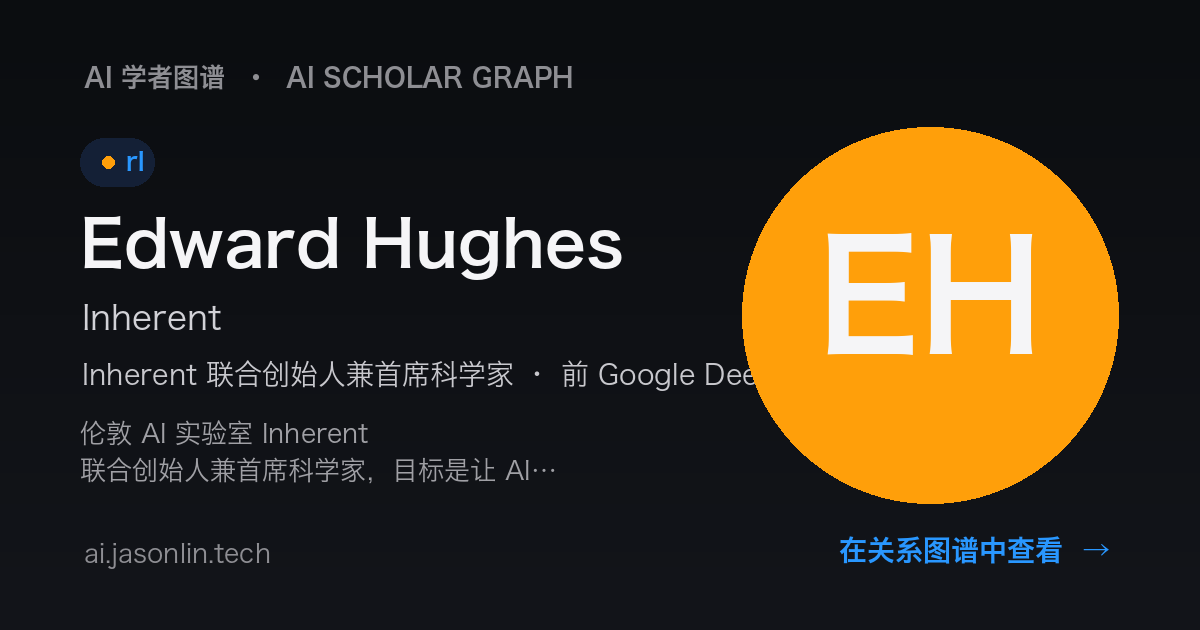
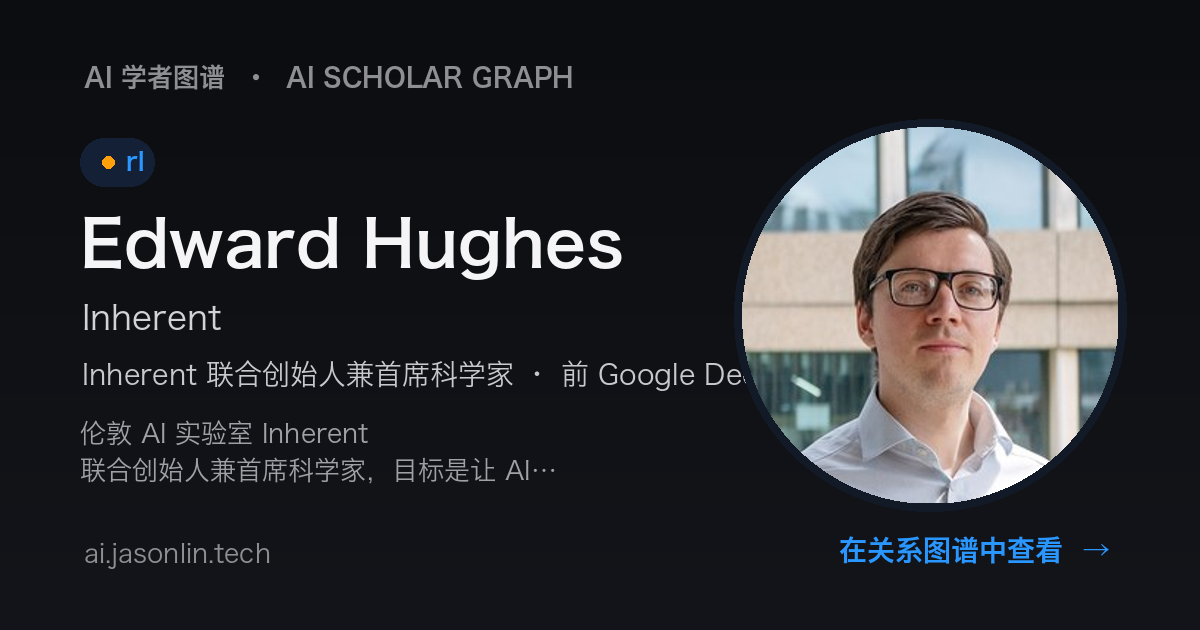
feat: 补 Ghemawat / Edward Hughes / 宋亚宸 头像(256px 人脸裁切)+ 重刷分享页与 OG 卡
来源:Discovery Loop 四人合照(左二)、edwardhughes.io 官方头像、凤凰网三位创始人合照(最左);均已肉眼核对。LOCAL_PHOTOS 190/192。

Claude-Session: https://claude.ai/code/session_01J8uaPH9eMgzrHih7Y7Prm5

Changed region(s): [[0.6167, 0.181, 0.9558, 0.8143]]

diff --git a/index.html b/index.html
@@ -2626,7 +2626,7 @@ function applyLanguage(lang) {
 }
 
 // 本地头像(assets/people/<id>.jpg,部分源自 AI 播客站,可靠优先)
-const LOCAL_PHOTOS = new Set(["abbeel", "ajambrosino", "albertgu", "alexrives", "alexwei", "alibehrouz", "altman", "antonoglou", "aravindsrinivas", "askell", "awang", "barretzoph", "batson", "bcherny", "bengio", "benmann", "berntbornich", "billpeebles", "brettadcock", "brettaylor", "bricken", "brown", "bubeck", "caitlin", "carinahong", "catwu", "chendanqi", "christiano", "clark", "damodei", "danbiderman", "daniela", "danklein", "davidsp", "dayaguo", "dean", "delangue", "diannepenn", "dylanpatel", "edunov", "edwinchen", "ericjang", "esser", "ethanhe", "fedus", "feifei", "felixrieseberg", "finn", "fiona", "fulford", "gomez", "goodfellow", "grantsanderson", "gregbrockman", "gregyang", "hafner", "hasani", "hassabis", "hausman", "hendrycks", "hinton", "ho", "hochreiter", "huangminlie", "jackph", "jaderberg", "janleike", "jaredkaplan", "jensen", "jhoward", "jiangdaxin", "jietang", "jimfan", "jimmyba", "jones", "joonpark", "jumper", "justinjohnson", "kaifulee", "kaiminghe", "kaiser", "karina", "karpathy", "kendall", "kingma", "kokotajlo", "kolter", "koray", "krizhevsky", "lacroix", "lambert", "lample", "laskin", "lebrun", "lecun", "legg", "levine", "liang", "liangwenfeng", "lilianweng", "lindahua", "linjunyang", "linqiao", "liuzhiyuan", "logankilpatrick", "luofuli", "luqi", "malik", "manning", "markchen", "matengyu", "mattwhite", "mensch", "mikekrieger", "mildenhall", "miramurati", "mjordan", "musk", "nanda", "nando", "naval", "ng", "nickturley", "noambrown", "olah", "pachocki", "parada", "parmar", "pathak", "pincus", "pushmeetkohli", "quocle", "radford", "reinerpope", "robertlange", "robinli", "rohinshah", "rombach", "sainingxie", "sammccandlish", "satya", "schmidhuber", "schulman", "scottwu", "shanahan", "shazeer", "shengjiazhao", "sholto", "silver", "socher", "springenberg", "steinberger", "suleyman", "sutskever", "sutton", "szegedy", "tangxiaoou", "tejal", "thariq", "thomaswolf", "tridao", "truell", "tulloch", "tworek", "uszkoreit", "varun", "vaswani", "vikbajaj", "vinyals", "waldenyan", "wangxiaochuan", "wangxiaogang", "wei", "weinane", "wiltschko", "wuyonghui", "yangyaodong", "yangzhilin", "yanjunjie", "yaoqizhi", "yaoshunyu", "yejin", "yudong", "zhanglinfeng", "zhangzhengyou", "zhoujingren", "zhusongchun"]);
+const LOCAL_PHOTOS = new Set(["abbeel", "ajambrosino", "albertgu", "alexrives", "alexwei", "alibehrouz", "altman", "antonoglou", "aravindsrinivas", "askell", "awang", "barretzoph", "batson", "bcherny", "bengio", "benmann", "berntbornich", "billpeebles", "brettadcock", "brettaylor", "bricken", "brown", "bubeck", "caitlin", "carinahong", "catwu", "chendanqi", "christiano", "clark", "damodei", "danbiderman", "daniela", "danklein", "davidsp", "dayaguo", "dean", "delangue", "diannepenn", "dylanpatel", "edunov", "edwinchen", "ericjang", "esser", "ethanhe", "fedus", "feifei", "felixrieseberg", "finn", "fiona", "fulford", "gomez", "goodfellow", "grantsanderson", "gregbrockman", "gregyang", "hafner", "hasani", "hassabis", "hausman", "hendrycks", "hinton", "ho", "hochreiter", "huangminlie", "jackph", "jaderberg", "janleike", "jaredkaplan", "jensen", "jhoward", "jiangdaxin", "jietang", "jimfan", "jimmyba", "jones", "joonpark", "jumper", "justinjohnson", "kaifulee", "kaiminghe", "kaiser", "karina", "karpathy", "kendall", "kingma", "kokotajlo", "kolter", "koray", "krizhevsky", "lacroix", "lambert", "lample", "laskin", "lebrun", "lecun", "legg", "levine", "liang", "liangwenfeng", "lilianweng", "lindahua", "linjunyang", "linqiao", "liuzhiyuan", "logankilpatrick", "luofuli", "luqi", "malik", "manning", "markchen", "matengyu", "mattwhite", "mensch", "mikekrieger", "mildenhall", "miramurati", "mjordan", "musk", "nanda", "nando", "naval", "ng", "nickturley", "noambrown", "olah", "pachocki", "parada", "parmar", "pathak", "pincus", "pushmeetkohli", "quocle", "radford", "reinerpope", "robertlange", "robinli", "rohinshah", "rombach", "sainingxie", "sammccandlish", "satya", "schmidhuber", "schulman", "scottwu", "shanahan", "shazeer", "shengjiazhao", "sholto", "silver", "socher", "springenberg", "steinberger", "suleyman", "sutskever", "sutton", "szegedy", "tangxiaoou", "tejal", "thariq", "thomaswolf", "tridao", "truell", "tulloch", "tworek", "uszkoreit", "varun", "vaswani", "vikbajaj", "vinyals", "waldenyan", "wangxiaochuan", "wangxiaogang", "wei", "weinane", "wiltschko", "wuyonghui", "yangyaodong", "yangzhilin", "yanjunjie", "yaoqizhi", "yaoshunyu", "yejin", "yudong", "zhanglinfeng", "zhangzhengyou", "zhoujingren", "zhusongchun", "ghemawat", "edwardhughes", "songyawei"]);
 
 // Wikipedia article title mapping for avatar fetching
 const wikiTitles = {

diff --git a/p/ghemawat.html b/p/ghemawat.html
@@ -21,7 +21,7 @@
 <button class="langtoggle" id="langtoggle" type="button" aria-label="切换语言 / Toggle language"><span class="i18n-zh">EN</span><span class="i18n-en">中</span></button>
 <div class="wrap">
 <a class="eyebrow" href="/"><span class="i18n-zh">AI 学者图谱</span><span class="i18n-en">Ai Scholar Graph</span> ↗</a>
-<div class="avatar mono" style="background:linear-gradient(145deg,#0a84ffeb,#0a84ff80);box-shadow:0 0 0 1px rgba(255,255,255,.08),0 0 0 7px #0a84ff24">SG</div>
+<img class="avatar" src="/assets/people/ghemawat.jpg" alt="Sanjay Ghemawat" width="108" height="108" loading="eager">
 <h1><span class="i18n-zh">桑贾伊·格玛瓦特</span><span class="i18n-en">Sanjay Ghemawat</span></h1>
 <p class="org">Discovery Loop</p>
 <p class="role"><span class="i18n-zh">Discovery Loop 联合创始人 · 前 Google Senior Fellow</span><span class="i18n-en">Co-founder of Discovery Loop · Google Senior Fellow (1999–2026)</span></p>

diff --git a/p/edwardhughes.html b/p/edwardhughes.html
@@ -21,7 +21,7 @@
 <button class="langtoggle" id="langtoggle" type="button" aria-label="切换语言 / Toggle language"><span class="i18n-zh">EN</span><span class="i18n-en">中</span></button>
 <div class="wrap">
 <a class="eyebrow" href="/"><span class="i18n-zh">AI 学者图谱</span><span class="i18n-en">Ai Scholar Graph</span> ↗</a>
-<div class="avatar mono" style="background:linear-gradient(145deg,#ff9f0aeb,#ff9f0a80);box-shadow:0 0 0 1px rgba(255,255,255,.08),0 0 0 7px #ff9f0a24">EH</div>
+<img class="avatar" src="/assets/people/edwardhughes.jpg" alt="Edward Hughes" width="108" height="108" loading="eager">
 <h1><span class="i18n-zh">爱德华·休斯</span><span class="i18n-en">Edward Hughes</span></h1>
 <p class="org">Inherent</p>
 <p class="role"><span class="i18n-zh">Inherent 联合创始人兼首席科学家 · 前 Google DeepMind</span><span class="i18n-en">Co-founder &amp; Chief Scientist of Inherent · ex-Google DeepMind</span></p>

diff --git a/p/songyawei.html b/p/songyawei.html
@@ -21,7 +21,7 @@
 <button class="langtoggle" id="langtoggle" type="button" aria-label="切换语言 / Toggle language"><span class="i18n-zh">EN</span><span class="i18n-en">中</span></button>
 <div class="wrap">
 <a class="eyebrow" href="/"><span class="i18n-zh">AI 学者图谱</span><span class="i18n-en">Ai Scholar Graph</span> ↗</a>
-<div class="avatar mono" style="background:linear-gradient(145deg,#30d158eb,#30d15880);box-shadow:0 0 0 1px rgba(255,255,255,.08),0 0 0 7px #30d15824">SY</div>
+<img class="avatar" src="/assets/people/songyawei.jpg" alt="Song Yawei" width="108" height="108" loading="eager">
 <h1><span class="i18n-zh">宋亚宸</span><span class="i18n-en">Song Yawei</span></h1>
 <p class="org">VAST (Tripo)</p>
 <p class="role"><span class="i18n-zh">VAST（Tripo）创始人兼 CEO · AI 3D 生成</span><span class="i18n-en">Founder &amp; CEO of VAST · AI 3D generation</span></p>
